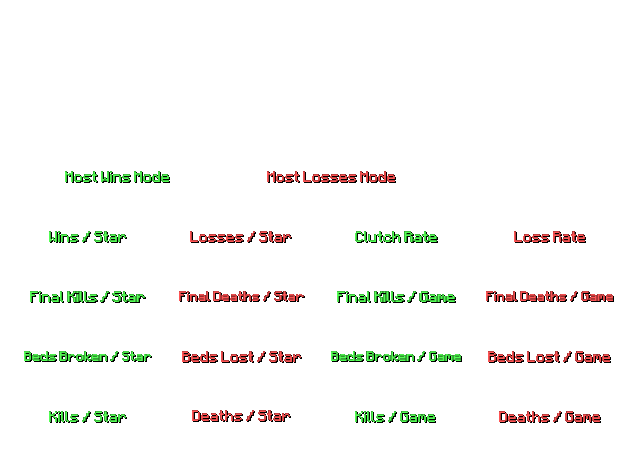
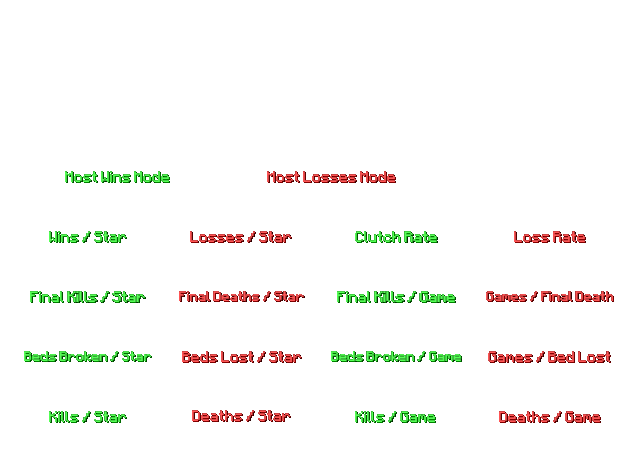
Changed average `finals and beds / game` to `games / final and bed` and changed per star to per 5000 xp

diff --git a/bot/calc/average.py b/bot/calc/average.py
@@ -16,36 +16,42 @@ class Ratios:
         self.hypixel_data = get_player_dict(hypixel_data)
         self.hypixel_data_bedwars = self.hypixel_data.get('stats', {}).get('Bedwars', {})
 
-        self.level = int(get_level(self.hypixel_data_bedwars.get('Experience', 0)))
+        self.experience = self.hypixel_data_bedwars.get('Experience', 0)
+
+        self.level_real = self.experience / 5000
+        self.level = int(get_level(self.experience))
+
         self.games_played = self.hypixel_data_bedwars.get(f'{self.mode}games_played_bedwars', 0)
+
         self.rank_info = get_rank_info(self.hypixel_data)
+
         self.progress = get_progress(hypixel_data_bedwars=self.hypixel_data_bedwars)
 
 
     def get_per_star(self):
         wins = self.hypixel_data_bedwars.get(f'{self.mode}wins_bedwars', 0)
-        wins_per_star = rround(wins / (self.level or 1), 2)
+        wins_per_star = rround(wins / (self.level_real or 1), 2)
 
         final_kills = self.hypixel_data_bedwars.get(f'{self.mode}final_kills_bedwars', 0)
-        final_kills_per_star = rround(final_kills / (self.level or 1), 2)
+        final_kills_per_star = rround(final_kills / (self.level_real or 1), 2)
 
         beds_broken = self.hypixel_data_bedwars.get(f'{self.mode}beds_broken_bedwars', 0)
-        beds_broken_per_star = rround(beds_broken / (self.level or 1), 2)
+        beds_broken_per_star = rround(beds_broken / (self.level_real or 1), 2)
 
         kills = self.hypixel_data_bedwars.get(f'{self.mode}kills_bedwars', 0)
-        kills_per_star = rround(kills / (self.level or 1), 2)
+        kills_per_star = rround(kills / (self.level_real or 1), 2)
 
         losses = self.hypixel_data_bedwars.get(f'{self.mode}losses_bedwars', 0)
-        losses_per_star = rround(losses / (self.level or 1), 2)
+        losses_per_star = rround(losses / (self.level_real or 1), 2)
 
         final_deaths = self.hypixel_data_bedwars.get(f'{self.mode}final_deaths_bedwars', 0)
-        final_deaths_per_star = rround(final_deaths / (self.level or 1), 2)
+        final_deaths_per_star = rround(final_deaths / (self.level_real or 1), 2)
 
         beds_lost = self.hypixel_data_bedwars.get(f'{self.mode}beds_lost_bedwars', 0)
-        beds_lost_per_star = rround(beds_lost / (self.level or 1), 2)
+        beds_lost_per_star = rround(beds_lost / (self.level_real or 1), 2)
 
         deaths = self.hypixel_data_bedwars.get(f'{self.mode}deaths_bedwars', 0)
-        deaths_per_star = rround(deaths / (self.level or 1), 2)
+        deaths_per_star = rround(deaths / (self.level_real or 1), 2)
 
         return str(wins_per_star), str(final_kills_per_star), str(beds_broken_per_star),\
                str(kills_per_star), str(losses_per_star), str(final_deaths_per_star),\
@@ -63,16 +69,16 @@ class Ratios:
         kills_per_game = rround(kills / (self.games_played or 1), 2)
 
         final_deaths = self.hypixel_data_bedwars.get(f'{self.mode}final_deaths_bedwars', 0)
-        final_deaths_per_game = rround(final_deaths / (self.games_played or 1), 2)
+        games_per_final_death = rround(self.games_played / (final_deaths or 1), 2)
 
         beds_lost = self.hypixel_data_bedwars.get(f'{self.mode}beds_lost_bedwars', 0)
-        beds_lost_per_game = rround(beds_lost / (self.games_played or 1), 2)
+        games_per_bed_lost = rround(self.games_played / (beds_lost or 1), 2)
 
         deaths = self.hypixel_data_bedwars.get(f'{self.mode}deaths_bedwars', 0)
         deaths_per_game = rround(deaths / (self.games_played or 1), 2)
 
         return str(final_kills_per_game), str(beds_broken_per_game), str(kills_per_game),\
-               str(final_deaths_per_game), str(beds_lost_per_game), str(deaths_per_game)
+               str(games_per_final_death), str(games_per_bed_lost), str(deaths_per_game)
 
 
     def get_clutch_rate(self):

diff --git a/bot/render/average.py b/bot/render/average.py
@@ -41,8 +41,8 @@ def render_average(
         final_kills_per_game,
         beds_broken_per_game,
         kills_per_game,
-        final_deaths_per_game,
-        beds_lost_per_game,
+        games_per_final_death,
+        games_per_bed_lost,
         deaths_per_game,
     ) = ratios.get_per_game()
 
@@ -80,8 +80,8 @@ def render_average(
         {'position': (396, 429), 'text': f'&a{kills_per_game}'},
 
         {'position': (551, 249), 'text': f'&c{loss_rate}'},
-        {'position': (551, 309), 'text': f'&c{final_deaths_per_game}'},
-        {'position': (551, 369), 'text': f'&c{beds_lost_per_game}'},
+        {'position': (551, 309), 'text': f'&c{games_per_final_death}'},
+        {'position': (551, 369), 'text': f'&c{games_per_bed_lost}'},
         {'position': (551, 429), 'text': f'&c{deaths_per_game}'},
 
         {'position': (118, 189), 'text': f'&a{most_wins}'},
